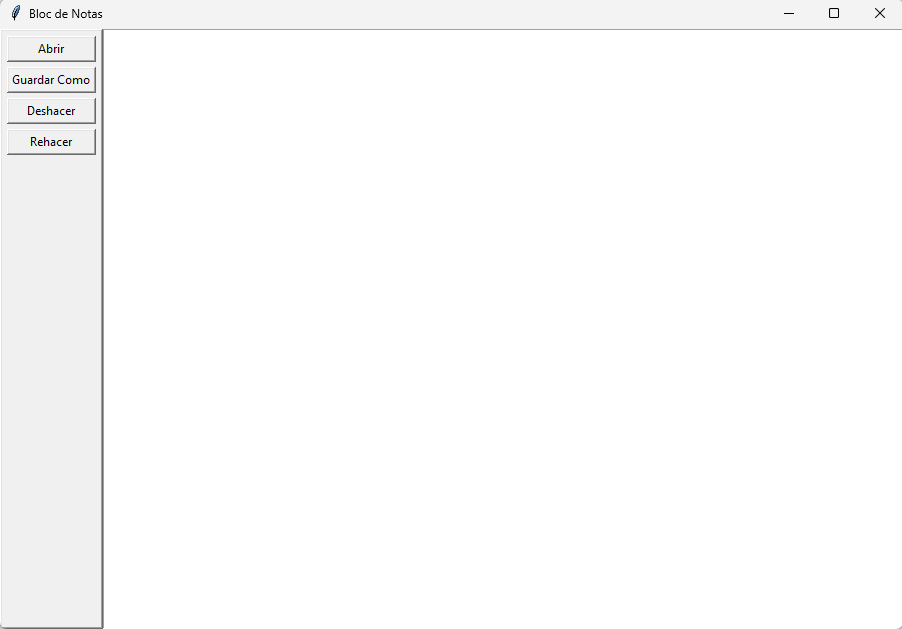
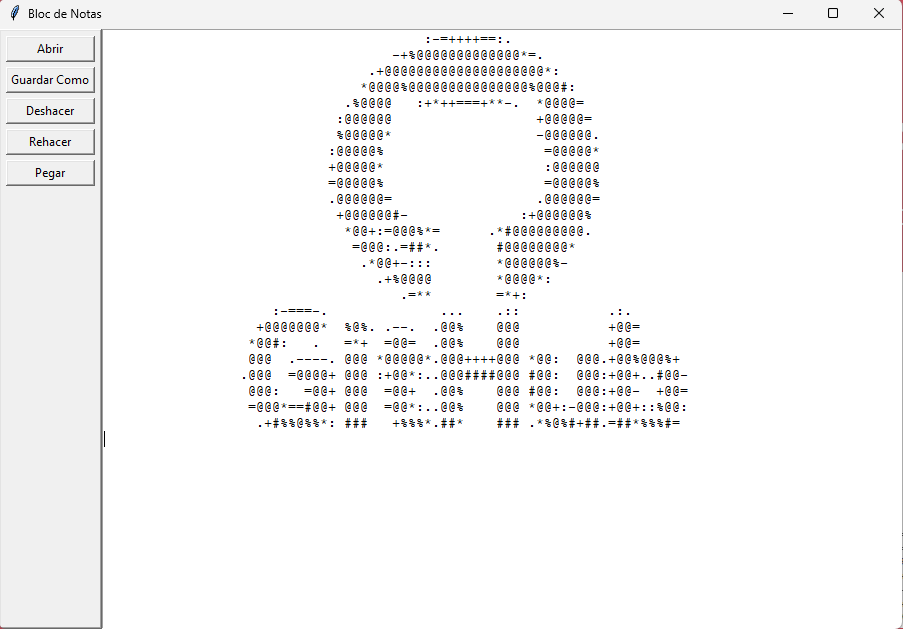
Fase_BetaV3

diff --git a/main.py b/main.py
@@ -103,6 +103,7 @@ class NotePadApp:
         self.root.title("Bloc de Notas")  # Título de la ventana
         self.editor = EditorTexto()  # Creamos una instancia de EditorTexto
         self.setup_ui()  # Configuramos la interfaz de usuario
+        self.root.bind('<Control-v>', lambda e: self.pegar())
 
     def setup_ui(self):
         # Configuramos el tamaño de la ventana
@@ -121,12 +122,14 @@ class NotePadApp:
         btn_guardar = tk.Button(fr_buttons, text="Guardar Como", command=self.guardar_archivo)
         btn_deshacer = tk.Button(fr_buttons, text="Deshacer", command=self.deshacer)
         btn_rehacer = tk.Button(fr_buttons, text="Rehacer", command=self.rehacer)
+        btn_pegar = tk.Button(fr_buttons, text="Pegar", command=self.pegar)
 
         # Posicionamos los botones
         btn_abrir.grid(row=0, column=0, sticky="ew", padx=5, pady=5)
         btn_guardar.grid(row=1, column=0, sticky="ew", padx=5)
         btn_deshacer.grid(row=2, column=0, sticky="ew", padx=5, pady=5)
         btn_rehacer.grid(row=3, column=0, sticky="ew", padx=5)
+        btn_pegar.grid(row=4, column=0, sticky="ew", padx=5, pady=5)
 
         # Posicionamos el frame de botones
         fr_buttons.grid(row=0, column=0, sticky="ns")
@@ -194,6 +197,19 @@ class NotePadApp:
             text = self.pila_rehacer.pop()  # Obtenemos el estado siguiente
             self.editor.establecer_texto(text)  # Establecemos el texto siguiente
             self.actualizar_widget_texto()  # Actualizamos el widget de texto
+
+    def pegar(self):
+        try:
+            texto = self.root.clipboard_get()
+            index = self.txt_edit.index(tk.INSERT)
+            row, col = map(int, index.split('.'))
+            self.editor.mover_cursor(col)
+            for char in texto:
+                self.editor.insertar(char)
+            self.actualizar_widget_texto()
+            self.agregar_a_historial()
+        except tk.TclError:
+            pass  # El portapapeles está vacío
 
 # Creamos la ventana principal y ejecutamos la aplicación
 root = tk.Tk()
